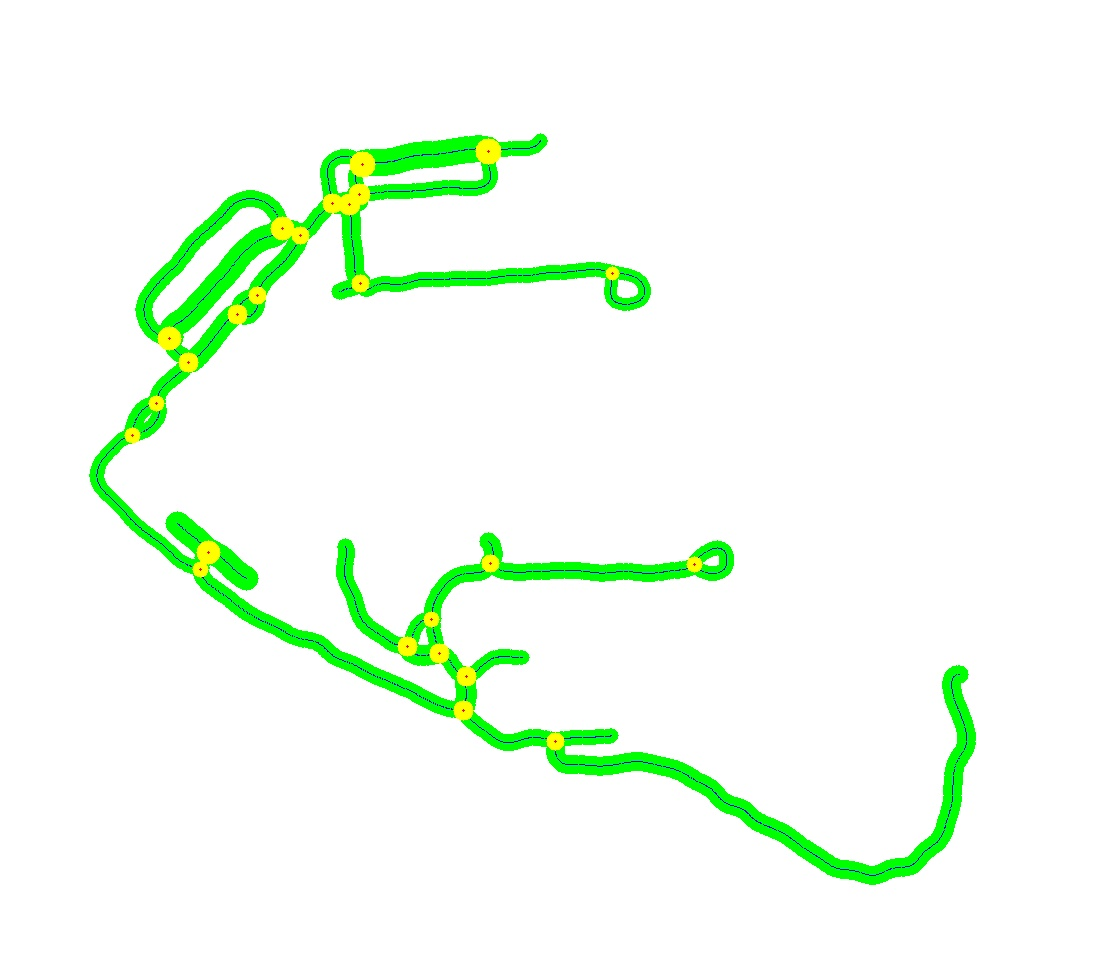
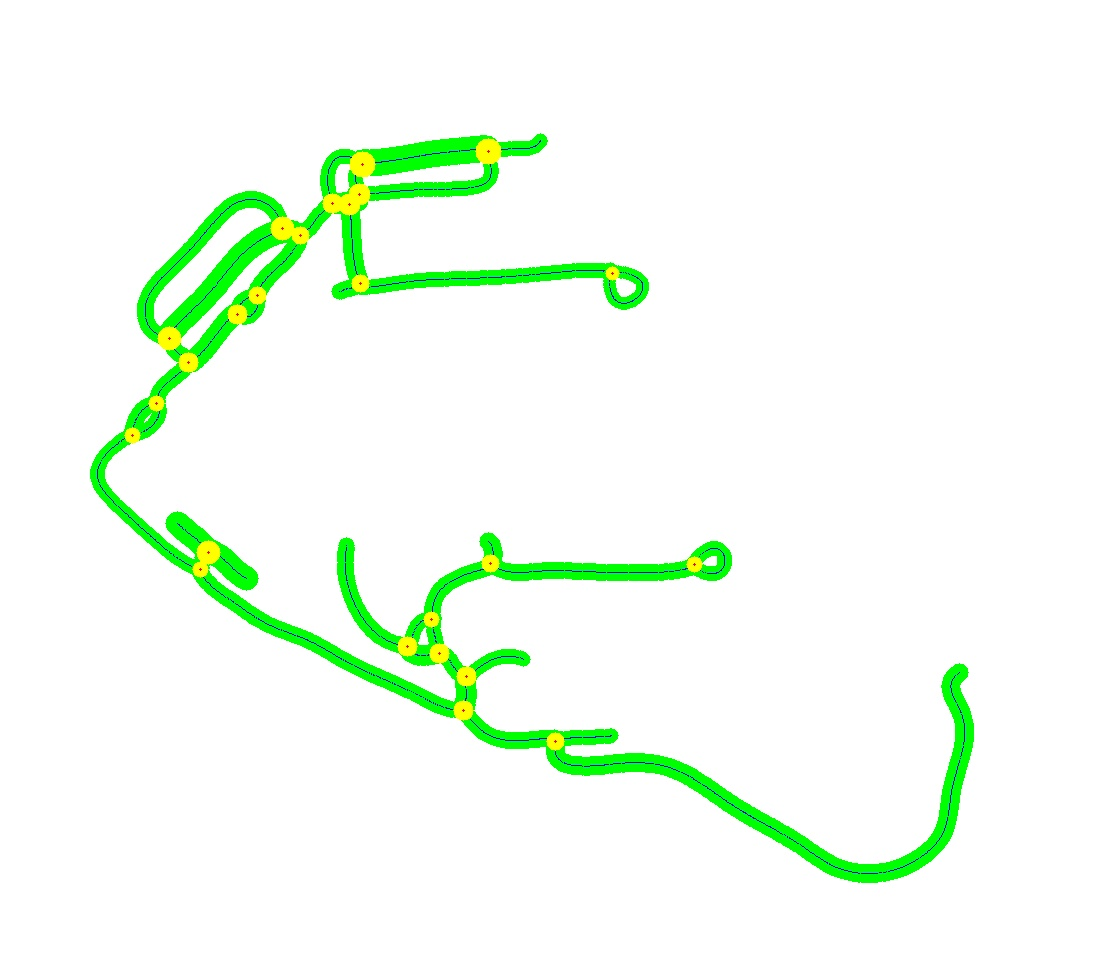
road semantics: some pictures;

diff --git a/smart-ros-pkg/experimental/road_semantics/src/topo_extractor/TopoExtractor.cpp b/smart-ros-pkg/experimental/road_semantics/src/topo_extractor/TopoExtractor.cpp
@@ -787,6 +787,8 @@ void topo_extractor::extract_node_edge(){
 			}
 		}
 	}
+
+
 	cvSaveImage( "./data/raw_skel.jpg", skel_image_ );
 
 	///////////////////////////////////////////////////////////////////
@@ -835,8 +837,8 @@ void topo_extractor::visualize_TopoMetric_graph()
 			 //int y = road_graph_.edges[i].cubic_spline->output_points_[j].y;
 			 cvCircle(color_edge, road_graph_.edges[i].cubic_spline->output_points_[j], (int)ceil(road_graph_.edges[i].road_width), CV_RGB( 0,255,0), -1);
 		 }
-		 cvShowImage("color_edge", color_edge);
-		 cvWaitKey(0);
+		 //cvShowImage("color_edge", color_edge);
+		 //cvWaitKey(0);
 	 }
 
 	 for(size_t i=0; i<road_graph_.edges.size(); i++)
@@ -1365,7 +1367,7 @@ void topo_extractor::road_spline_fitting()
 	for(size_t k=0; k<road_graph_.edges.size(); k++)
 	{
 		ROS_INFO("road_graph_.edges[%ld] length %3f", k, road_graph_.edges[k].edge_length);
-		road_graph_.edges[k].cubic_spline = new golfcar_semantics::spline_fitting(road_graph_.edges[k].points, 0.5, 10.0);
+		road_graph_.edges[k].cubic_spline = new golfcar_semantics::spline_fitting(road_graph_.edges[k].points, 0.5, 20.0);
 
 		if(road_graph_.edges[k].cubic_spline->road_length_<=0.5)
 		{
@@ -1376,14 +1378,18 @@ void topo_extractor::road_spline_fitting()
 	}
 
 	Mat spline_output(grid_size_y, grid_size_x, CV_8UC3);
-	spline_output = Scalar(0);
+	spline_output = Scalar(255, 255, 255);
+
+	Mat raw_skel = spline_output.clone();
+
 	Vec3b raw_color, spline_color;
-	raw_color.val[0] = 0;
-	raw_color.val[1] = 255;
+	raw_color.val[0] = 255;
+	raw_color.val[1] = 0;
 	raw_color.val[2] = 0;
-	spline_color.val[0] = 0;
+
+	spline_color.val[0] = 255;
 	spline_color.val[1] = 0;
-	spline_color.val[2] = 255;
+	spline_color.val[2] = 0;
 	for(size_t k=0; k<road_graph_.edges.size(); k++)
 	{
 		for(size_t p=0; p<	road_graph_.edges[k].cubic_spline->raw_points_.size();p++)
@@ -1391,7 +1397,7 @@ void topo_extractor::road_spline_fitting()
 			Point tmp;
 			tmp.x = road_graph_.edges[k].cubic_spline->raw_points_[p].x;
 			tmp.y = road_graph_.edges[k].cubic_spline->raw_points_[p].y;
-			spline_output.at<Vec3b>(tmp.y, tmp.x) = raw_color;
+			raw_skel.at<Vec3b>(tmp.y, tmp.x) = raw_color;
 		}
 
 		for(size_t p=0; p<	road_graph_.edges[k].cubic_spline->output_points_.size();p++)
@@ -1402,16 +1408,25 @@ void topo_extractor::road_spline_fitting()
 			spline_output.at<Vec3b>(tmp.y, tmp.x) = spline_color;
 		}
 	}
+
+	for(size_t k=0; k<road_graph_.nodeClusters.size(); k++)
+	{
+		Point tmp;
+		tmp.x = floor(road_graph_.nodeClusters[k].cluster_center.x);
+		tmp.y = floor(road_graph_.nodeClusters[k].cluster_center.y);
+		circle(raw_skel, tmp, 5, CV_RGB( 255,0,0));
+	}
+
+	imshow("raw_color", raw_skel);
 	imshow("spline_output", spline_output);
 	waitKey();
+	imwrite( "./data/raw_color.jpg", raw_skel);
 	imwrite( "./data/spline_output.jpg", spline_output );
 }
 
 //to merge intersections when one's radius cover the other's center;
 void topo_extractor::merge_intersections()
 {
-	ROS_INFO("user data %x", &road_graph_);
-
 	CvMemStorage* storage = cvCreateMemStorage(0);
 	CvSeq* serial_seq= cvCreateSeq( 0, sizeof(CvSeq), sizeof(size_t), storage);
 	for(size_t i=0; i<road_graph_.nodeClusters.size(); i++) cvSeqPush( serial_seq, &i);
